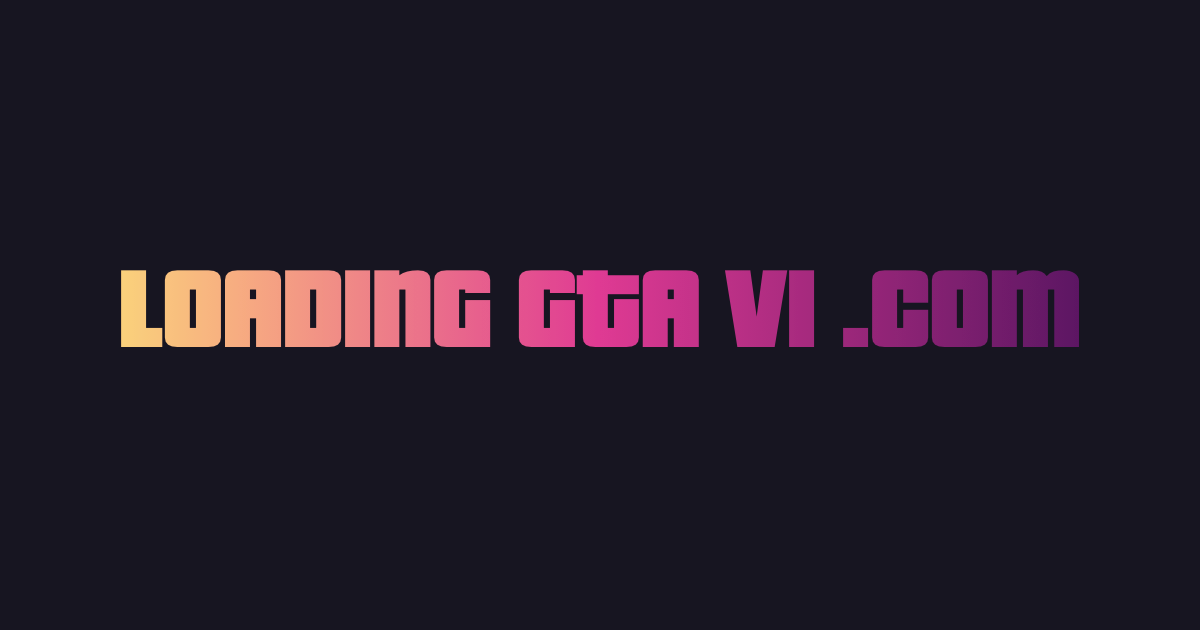
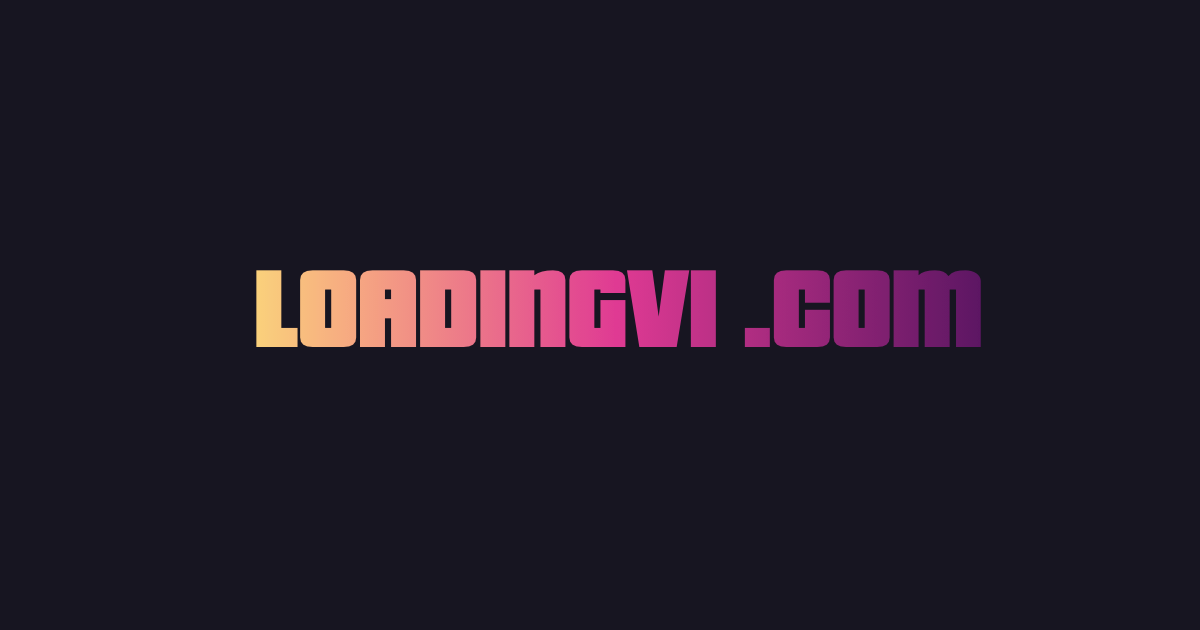
update og image

Changed region(s): [[0.0925, 0.4222, 0.925, 0.573]]

diff --git a/src/utils/OGImageGenerator.tsx b/src/utils/OGImageGenerator.tsx
@@ -30,7 +30,7 @@ export const OGImageGenerator = () => {
                     letterSpacing: '-2px',  
                 }}
             >
-                LOADING GTA VI .com
+                LOADINGVI .com
             </h1>
         </div>
     )
